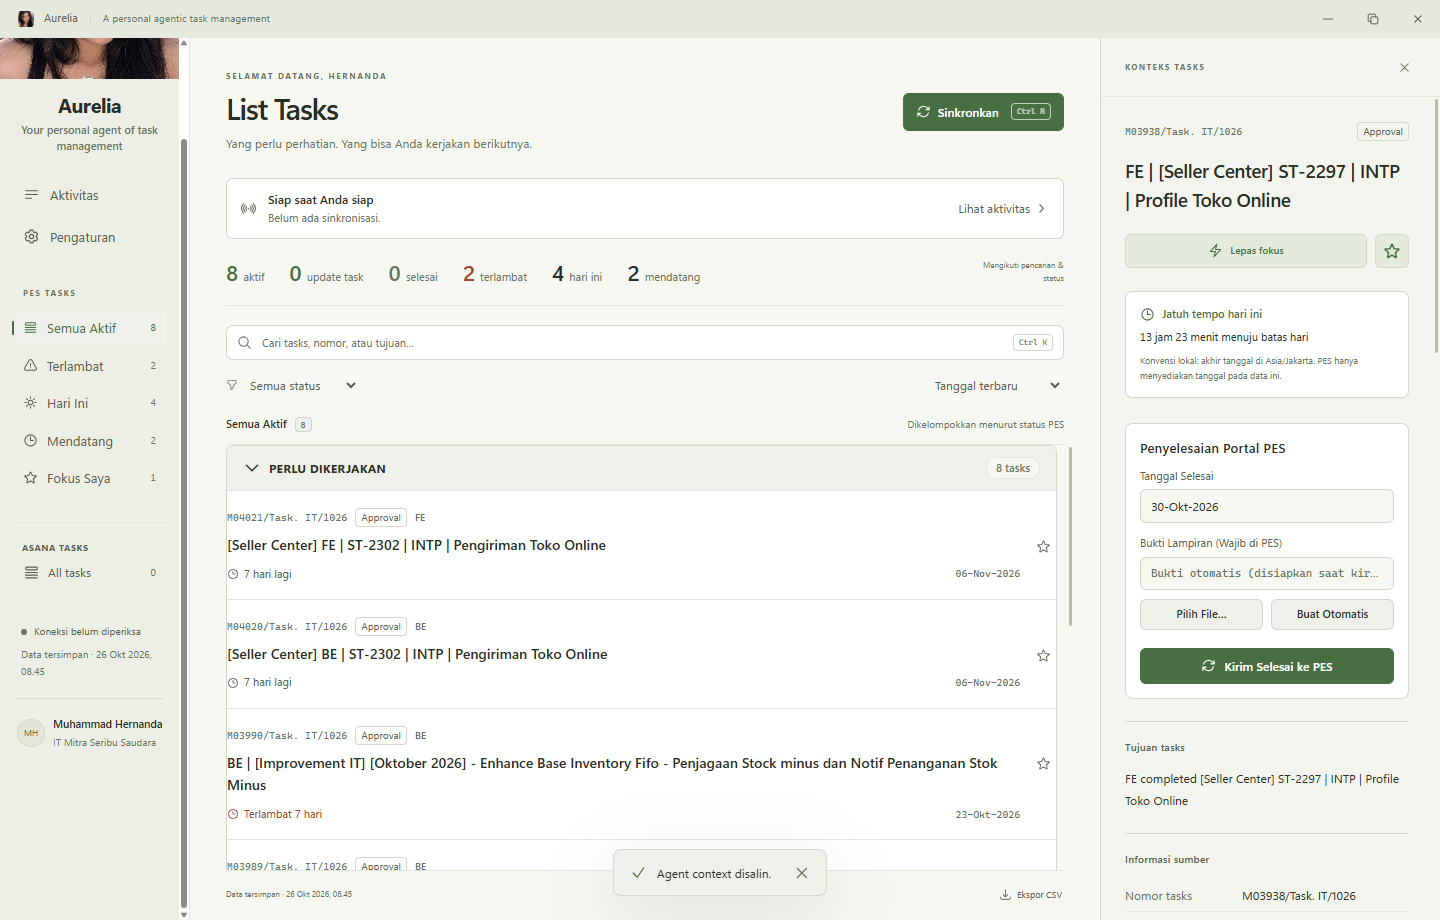
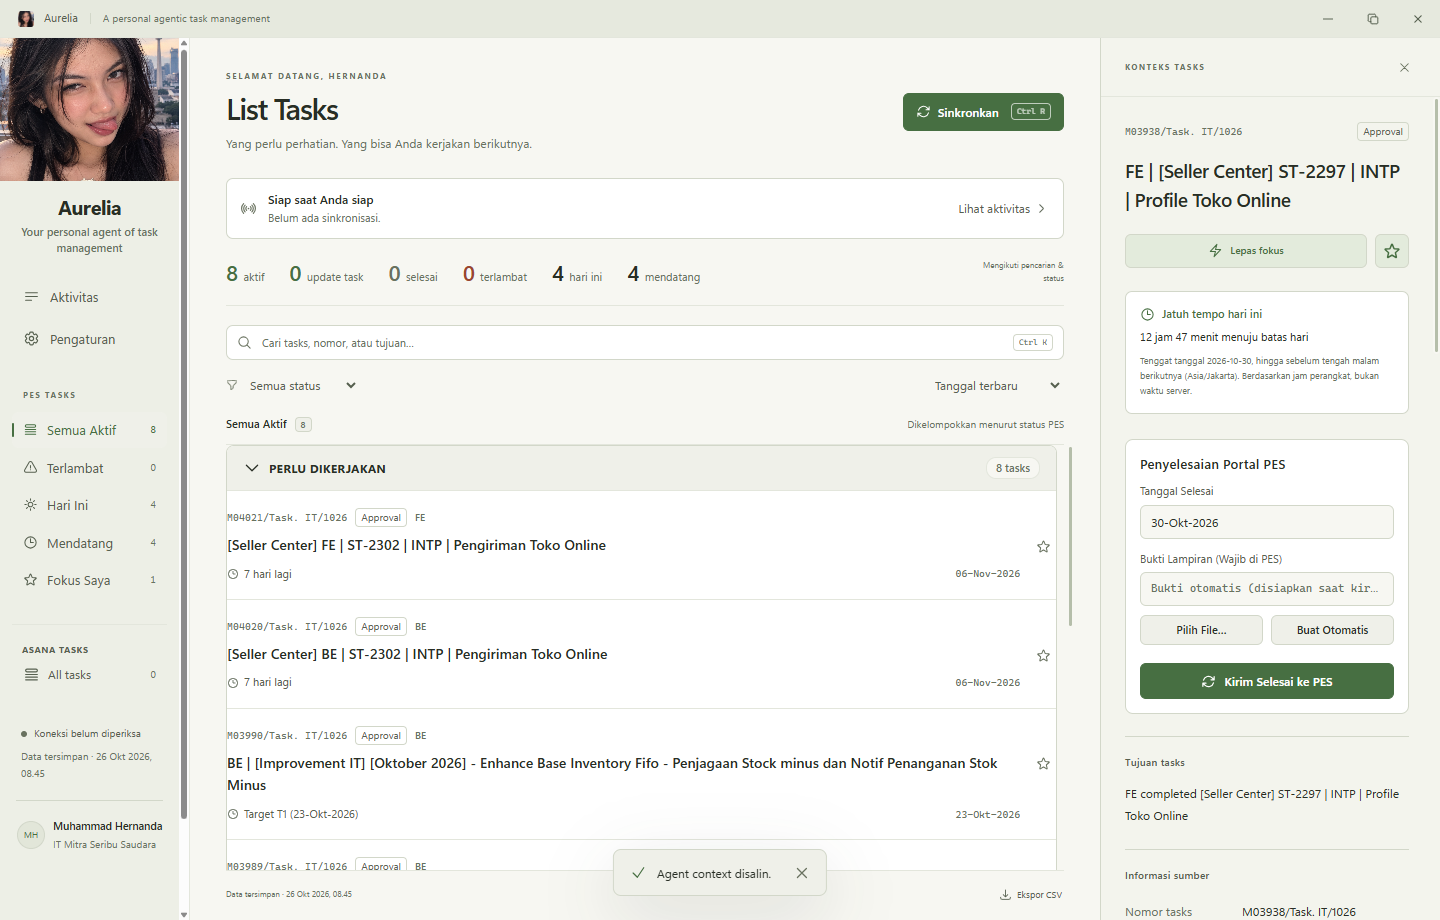
fix: retargeted T2+ overdue rule and completed task deadline label

diff --git a/desktop/src/renderer/App.tsx b/desktop/src/renderer/App.tsx
@@ -1,7 +1,7 @@
 import { useCallback, useEffect, useMemo, useRef, useState, type ReactNode } from 'react';
 import { ArrowPathIcon, ArrowTopRightOnSquareIcon, ArrowDownTrayIcon, Bars3BottomLeftIcon, CheckIcon, ChevronDownIcon, ChevronRightIcon, ClockIcon, Cog6ToothIcon, DocumentDuplicateIcon, ExclamationTriangleIcon, FunnelIcon, MagnifyingGlassIcon, MinusIcon, QueueListIcon, SignalIcon, Square2StackIcon, StarIcon, SunIcon, TrashIcon, XMarkIcon, BoltIcon, ShieldCheckIcon, InboxIcon } from '@heroicons/react/24/outline';
 import type { Activity, AppState, Settings, Task } from '../shared/types';
-import { dateWindow, deadlineInfo } from '../shared/domain';
+import { dateWindow, deadlineInfo, taskDeadlineInfo } from '../shared/domain';
 import { interfaceCopy } from '../shared/ui-copy';
 import { CompletionObserver } from './CompletionObserver';
 import { AsanaNav, AsanaPanel } from './asana/AsanaPanel';
@@ -192,7 +192,7 @@ export default function App() {
   const tz = state?.settings.timezone ?? 'Asia/Jakarta';
   const tasks = state?.snapshot?.tasks ?? [];
   const isUntitledPesTask = (t: Task) => !t.TaskName?.trim() || ['untitled task', 'untitled', 'tanpa judul'].includes(t.TaskName.trim().toLowerCase());
-  const decorated = useMemo(() => tasks.map(task => ({ task, deadline: deadlineInfo(task.Duedate, now, tz) })), [tasks, now, tz]);
+  const decorated = useMemo(() => tasks.map(task => ({ task, deadline: taskDeadlineInfo(task, now, tz) })), [tasks, now, tz]);
   const base = useMemo(() => decorated.filter(({task}) => !isUntitledPesTask(task) && (status === 'all' || task.Status === status) && (!query.trim() || [task.TaskNo,task.TaskName,task.GoalTask,task.Pic,task.DeptName,task.AsalTask,task.Status,task.Target].join(' ').toLocaleLowerCase('id-ID').includes(query.trim().toLocaleLowerCase('id-ID')))), [decorated,query,status]);
   const isFocus = useCallback((id: string) => !!state?.preferences[id]?.pinned || state?.focusTaskId === id, [state?.preferences,state?.focusTaskId]);
   const counts = useMemo(() => {
@@ -202,7 +202,7 @@ export default function App() {
       active: activeTasks.length,
       updateTask: base.filter(t => t.task.Status === 'Update Task').length,
       completed: base.filter(t => ['Solved', 'Selesai'].includes(t.task.Status)).length,
-      overdue: activeTasks.filter(t => t.deadline.kind === 'overdue').length,
+      overdue: base.filter(t => t.deadline.kind === 'overdue').length,
       today: activeTasks.filter(t => t.deadline.kind === 'today').length,
       upcoming: activeTasks.filter(t => t.deadline.kind === 'upcoming').length,
       focus: base.filter(t => isFocus(t.task.TaskNo)).length,
@@ -218,7 +218,7 @@ export default function App() {
     });
   };
   const visible = useMemo(() => {
-    const order = {overdue:0,today:1,upcoming:2,unknown:3};
+    const order = { overdue: 0, today: 1, upcoming: 2, unknown: 3, completed: 4 };
     return base.filter(({task,deadline}) => view === 'all' || (view === 'focus' ? isFocus(task.TaskNo) : deadline.kind === view)).sort((a,b) => {
       if (sort === 'name') return a.task.TaskName.localeCompare(b.task.TaskName,'id') || a.task.TaskNo.localeCompare(b.task.TaskNo);
       if (sort === 'deadline') return order[a.deadline.kind] - order[b.deadline.kind] || (a.deadline.dueIso ?? '9999').localeCompare(b.deadline.dueIso ?? '9999') || a.task.TaskNo.localeCompare(b.task.TaskNo);
@@ -290,7 +290,7 @@ export default function App() {
 }
 
 function TaskDetail({ task, state, now, timezone, call }: {task:Task;state:AppState;now:Date;timezone:string;call:(action:()=>Promise<unknown>,success?:string)=>Promise<void>}) {
-  const deadline = deadlineInfo(task.Duedate,now,timezone);
+  const deadline = taskDeadlineInfo(task, now, timezone);
   const remaining = Math.abs(deadline.remainingMs ?? 0); const hours = Math.floor(remaining / 3600000), minutes = Math.floor((remaining % 3600000) / 60000);
   const focused = state.focusTaskId === task.TaskNo;
   const workspaceError = workspaceUnavailable(state.agentWorkspace);
@@ -353,8 +353,8 @@ function TaskDetail({ task, state, now, timezone, call }: {task:Task;state:AppSt
     </div>
     <div className={`deadline-card ${deadline.kind}`}>
       <div><ClockIcon/><strong>{deadline.label}</strong></div>
-      <span className="countdown">{deadline.kind === 'unknown' ? 'Tanggal belum tersedia' : deadline.kind === 'overdue' ? `${deadline.days} hari kalender melewati tanggal tenggat` : `${hours.toLocaleString('id-ID')} jam ${minutes} menit menuju batas hari`}</span>
-      <p>{deadline.kind === 'unknown' ? 'Tidak ada hitung mundur untuk tanggal yang tidak dapat dibaca.' : `Konvensi lokal: akhir tanggal di ${timezone}. PES hanya menyediakan tanggal pada data ini.`}</p>
+      <span className="countdown">{deadline.kind === 'completed' ? (task.Status === 'Update Task' ? 'Task telah di-submit ke PES dan menunggu approval atasan.' : `Task telah diselesaikan pada ${task.TglSelesai || task.Duedate || 'tanggal tercatat'}.`) : deadline.kind === 'unknown' ? 'Tanggal belum tersedia' : deadline.kind === 'overdue' ? `${deadline.days} hari kalender melewati target (${task.Target})` : `${hours.toLocaleString('id-ID')} jam ${minutes} menit menuju batas hari`}</span>
+      <p>{deadline.detail}</p>
     </div>
     <section className="detail-section pes-completion-section" data-testid="pes-completion-card">
       <h3>Penyelesaian Portal PES</h3>

diff --git a/desktop/tests/domain.test.ts b/desktop/tests/domain.test.ts
@@ -131,4 +131,35 @@ describe('civil dates', () => {
     expect(result.label).toMatch(/Terlambat/);
     expect(result.detail).toContain('America/New_York');
   });
+  it('evaluates taskDeadlineInfo according to target T1 vs T2+ and completion status', () => {
+    const now = new Date('2026-10-30T10:00:00Z');
+    const baseTask = {
+      TaskNo: 'M03861', TglInput: '14-Okt-2026', Pic: 'MUHAMMAD HERNANDA', Jabatan: 'Programmer Back End',
+      DeptName: 'ITMSS', TaskName: 'CI Task', GoalTask: 'CI Goal', AsalTask: 'Lain-Lain',
+      Bobot: '4', Target: 'T1', Duedate: '14-Okt-2026', Status: 'Solved', TglApproval: '14-Okt-2026',
+      TglSelesai: '14-Okt-2026', Lampiran: 'proof.png', history: { text: '', tables: [] },
+    };
+
+    // 1. Solved task 16 days ago is NOT overdue, but completed
+    const solvedInfo = domain.taskDeadlineInfo(baseTask, now, 'Asia/Jakarta');
+    expect(solvedInfo.kind).toBe('completed');
+    expect(solvedInfo.label).toBe('Selesai 14-Okt-2026');
+    expect(solvedInfo.days).toBe(0);
+
+    // 2. Update Task is completed / awaiting approval
+    const updateInfo = domain.taskDeadlineInfo({ ...baseTask, Status: 'Update Task' }, now, 'Asia/Jakarta');
+    expect(updateInfo.kind).toBe('completed');
+    expect(updateInfo.label).toContain('Update Task');
+
+    // 3. Active task with Target T1 past due date is NOT overdue
+    const t1ActiveInfo = domain.taskDeadlineInfo({ ...baseTask, Status: 'Approval', Target: 'T1', Duedate: '14-Okt-2026' }, now, 'Asia/Jakarta');
+    expect(t1ActiveInfo.kind).toBe('upcoming');
+    expect(t1ActiveInfo.label).toContain('Target T1');
+
+    // 4. Active task with Target T2 past due date IS overdue
+    const t2OverdueInfo = domain.taskDeadlineInfo({ ...baseTask, Status: 'Approval', Target: 'T2', Duedate: '14-Okt-2026' }, now, 'Asia/Jakarta');
+    expect(t2OverdueInfo.kind).toBe('overdue');
+    expect(t2OverdueInfo.label).toMatch(/Terlambat/);
+    expect(t2OverdueInfo.label).toContain('T2');
+  });
 });

diff --git a/desktop/src/shared/domain.ts b/desktop/src/shared/domain.ts
@@ -180,3 +180,46 @@ export function deadlineInfo(input: string, now: Date, timezone: string): {
     detail: `Tenggat tanggal ${dueIso}, hingga sebelum tengah malam berikutnya (${timezone}). Berdasarkan jam perangkat, bukan waktu server.`,
   };
 }
+export function taskDeadlineInfo(task: Task, now: Date, timezone: string): {
+  kind: 'overdue' | 'today' | 'upcoming' | 'completed' | 'unknown';
+  days: number;
+  label: string;
+  remainingMs: number | null;
+  dueIso: string | null;
+  detail: string;
+} {
+  const isDone = ['Solved', 'Selesai', 'Update Task'].includes(task.Status);
+  if (isDone) {
+    const finish = task.TglSelesai || task.Duedate || 'Tercatat selesai';
+    const dueIso = parsePesDate(task.Duedate);
+    return {
+      kind: 'completed',
+      days: 0,
+      label: task.Status === 'Update Task' ? 'Update Task (Menunggu Approval)' : `Selesai ${finish}`,
+      remainingMs: 0,
+      dueIso,
+      detail: `Task berstatus ${task.Status}. Selesai dicatat pada ${finish}.`,
+    };
+  }
+  const m = /^T(\d+)$/i.exec((task.Target || '').trim());
+  const targetNum = m ? parseInt(m[1], 10) : 1;
+  const isRetargeted = targetNum >= 2;
+  const base = deadlineInfo(task.Duedate, now, timezone);
+  if (base.kind === 'overdue' && !isRetargeted) {
+    return {
+      ...base,
+      kind: 'upcoming',
+      label: `Target ${task.Target || 'T1'} (${task.Duedate || 'Tepat Waktu'})`,
+      detail: `Target ${task.Target || 'T1'}. Belum re-target ke T2, sehingga tidak dihitung sebagai status terlambat.`,
+    };
+  }
+  if (isRetargeted && base.days > 0) {
+    return {
+      ...base,
+      kind: 'overdue',
+      label: `Terlambat ${base.days} hari (${task.Target})`,
+      detail: `Task dalam target ${task.Target} (Re-target / Terlambat ${base.days} hari dari tenggat asli).`,
+    };
+  }
+  return base;
+}

diff --git a/desktop/src/renderer/styles.css b/desktop/src/renderer/styles.css
@@ -70,3 +70,6 @@ body{font-size:14px}.task-row h3{font-size:14px;line-height:1.6}.task-id{font-si
 .status-pill.status-done { background: var(--bg-elevated); color: var(--text-muted); border: 1px solid var(--border-default); }
 .update-task-stat strong { color: var(--accent); }
 .completed-stat strong { color: var(--text-muted); }
+.deadline.completed { color: var(--text-muted); }
+.deadline-card.completed { background: var(--bg-surface); border: 1px solid var(--border-default); color: var(--text-secondary); }
+.deadline-card.completed strong { color: var(--text-primary); }
